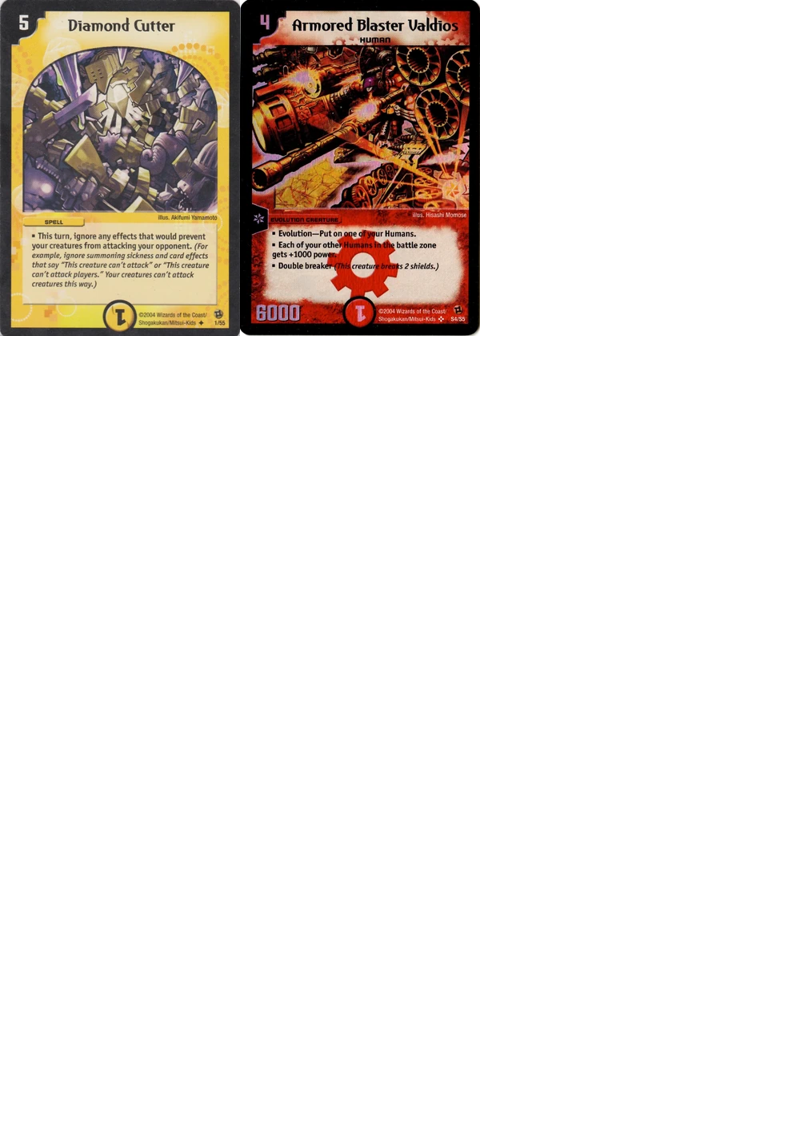
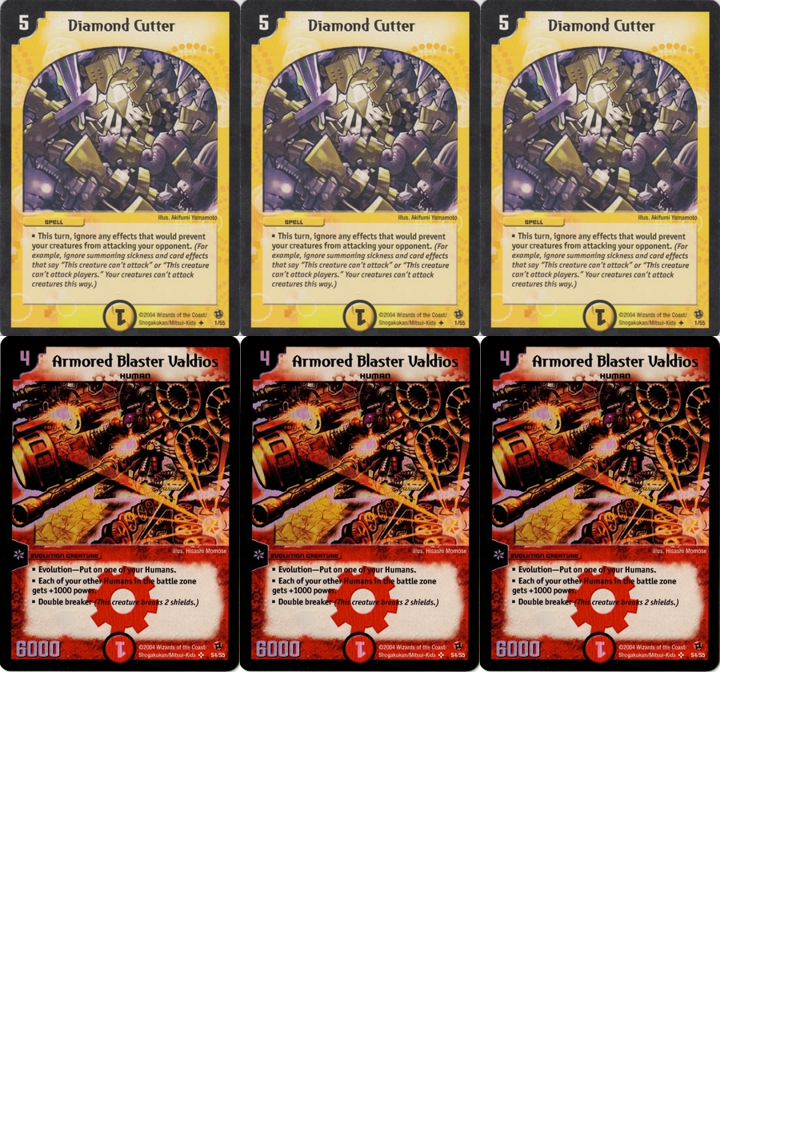
Add multiple copies and change rows

diff --git a/main.py b/main.py
@@ -11,25 +11,39 @@ canvas = Image.new("RGB", (794, 1123), (255, 255, 255)) # Create blank A4 canvas
 # canvas.save("empty-canvas.png") # Save it for testing
 print(os.listdir(images)) # Verifying "images" folder contents
 
-location = (0, 0) # Coordinates
+offset_x = 0
+offset_y = 0
+location = (offset_x, offset_y) # Coordinates
+cards_per_row = 3
 
 for image in os.listdir(images): # Parsing contents of "images"
 
     filename = "./images/" + image # Provide full path for safety sake
-    
-    # Update location for next image
+    copies = int(input("How many copies of {0} do you want?\n".format(image))) # How many of the same image to print
+
+    while copies < 1 or copies > 9:
+        copies = int(input("Invalid input. Try 1-9.\n"))
 
     with Image.open(filename) as img:
 
-        img.load
+        while copies != 0:
 
-        canvas.paste(
-            img.resize((240, 336)), # Image being pasted in also gets resized
-            location # Where to place top-left corner of the image
-        )
+            img.load
 
-        location = (location[0] + 240, location[1])
+            canvas.paste(
+                img.resize((240, 336)), # Image being pasted in also gets resized
+                location # Where to place top-left corner of the image
+            )
 
-        # print(type(img), img.format, img.size)
+            if cards_per_row == 1: # Last card for current row
+                location = (offset_x, location[1] + 336) # Go to the next row within the canvas
+                cards_per_row = 3
+            else:
+                location = (location[0] + 240, location[1]) # Update location for next image
+                cards_per_row -= 1
+
+            copies -= 1
+
+            # print(type(img), img.format, img.size)
 
 canvas.save("DLC.png") # Save final product
